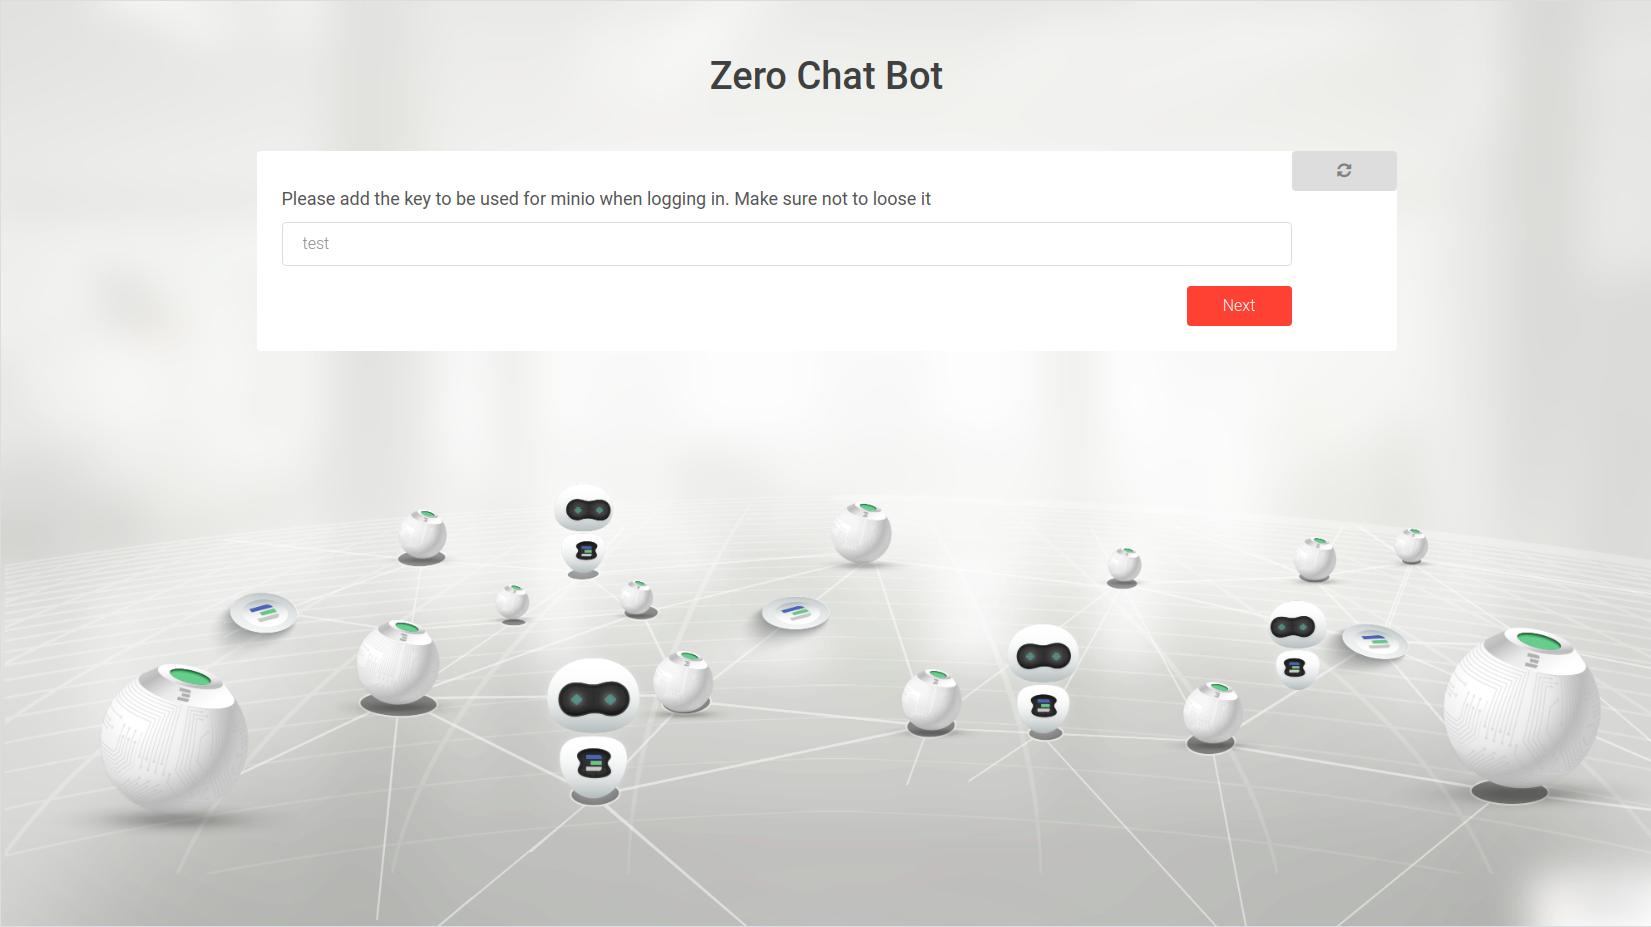
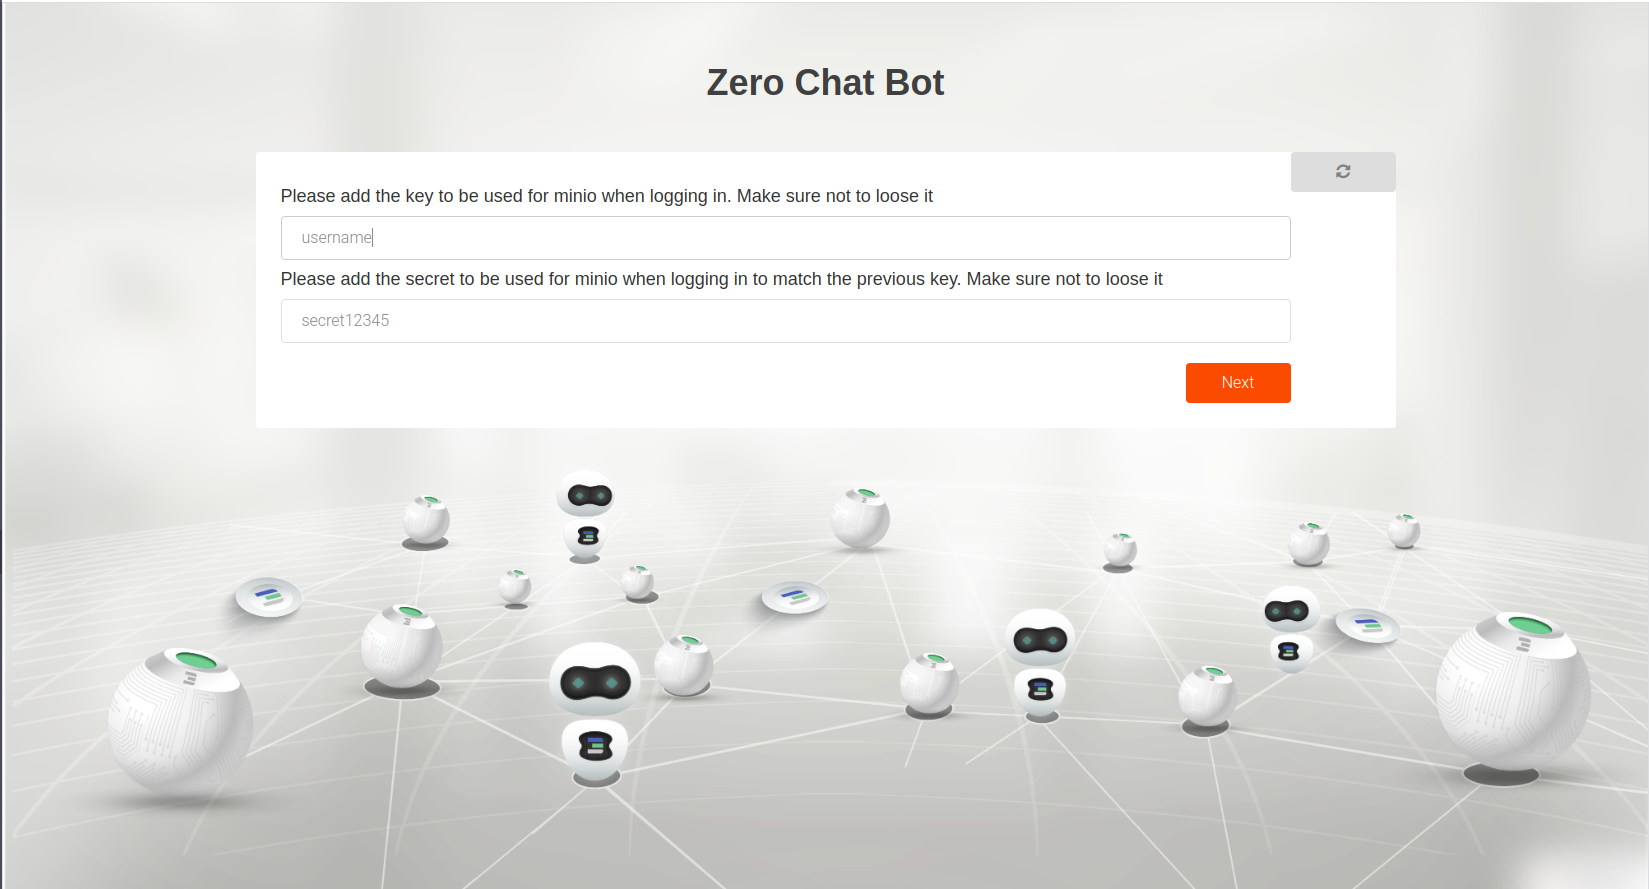
Update deployment solutions wiki docs in tfgrid solutions package

diff --git a/ThreeBotPackages/tfgrid_solutions/tfgrid_solutions/wiki/minio/README.md b/ThreeBotPackages/tfgrid_solutions/tfgrid_solutions/wiki/minio/README.md
@@ -15,66 +15,76 @@ Go to your admin dashboard `https://localhost:4000/admin` and click on Network
 
 
 - `container name` a name of your conatiner to help you to get it again with reservation id.
-- `db password` : password used for all zdb storage
 - `disk type for storage` : (SSD or HDD) disk type to be used by zdb databases where storage will take place
-- `database mode` : (seq or user) mode in which all zdb databases will run with
 - `access key & secret` : access key and secret pair that will be used to access MinIO deployed. This should be kept safely as it will provide access to the deployed infrastructure.
 - `cpu needed` : Number of cpu needed
 - `memory size` : Memory size needed example 2048
-- `number of data drives and parity drives` : number of drives needed and hence the number of zdbs to be created. Take care of the ratio between the number of data drives and the number of parity drives ([more info about drives](https://docs.min.io/docs/minio-erasure-code-quickstart-guide.html))
-    - `Expiration time`: a network expiration time (minutes=m ,hour=h, day=d, week=w, month=M)
-    - `IP Address` : choose the ip address for your MinIO machine.
+- `number of locations needed and locations allowed to fail` : number of drives needed and hence the number of zdbs to be created. Take care of the ratio between the number of locations needed (data drives) and the number of locations allowed to fail (parity drives) ([more info about drives](https://docs.min.io/docs/minio-erasure-code-quickstart-guide.html))
+- `Expiration time`: a network expiration time (minutes=m ,hour=h, day=d, week=w, month=M)
+- `IP Address` : choose the ip address for your MinIO machine.
 
 
 After the deployment of MinIO is complete,  a url will be returned that can be used to access it.
 
 ## Deploying MinIO
 
+### Choosing the solution name
+
+![Step3](minio3.png)
+Choosing the name of the solution to be deployed. This allows the user to view the solution's reservation info in the dashboard deployed solutions
 
 ### Choosing the network name
 
 ![Step2](minio2.png)
 Choosing the network to be used from a list of existing networks created by the user
 
-### Choosing the solution name
+### Choosing the Disk Type for zdb
 
-![Step3](minio3.png)
-Choosing the name of the solution to be deployed. This allows the user to view the solution's reservation info in the dashboard deployed solutions
-
-### ZDB Storage
-![Step4](minio4.png)
-
-Here we set the password for the backend of minio our [0-db](https://github.com/threefoldtech/0-db)
-
-### Choosing the Disk Type
 ![Step5](minio5.png)
 Now time to choose your disk type either SSD or HDD.
 
 
 ### User credentials
-Here we ask for the key and secret to access minio 
+
 ![Step6](minio6.png)
+Here we ask for the key and secret to access minio. Let's make sure we never lose them
 
-![Step7](minio7.png)
-Let's make sure we never lose them
 ### Resources for Minio
-![Step8](minio9.png)
-Here we define the CPU we need
-![Step9](minio10.png)
-And Now the time to specify the memory resources we need.
 
-### Locations 
-![Step10](minio11.png)
-![Step11](minio12.png)
+![Step8](minio9.png)
+Here we define the CPU nd memory resources we need
+
+### Locations
+
+![Step11](minio11.png)
 Here we choose the number of locations we want to save data on and number of locations we allow to fail.
 
 ### Expiration time
+
 ![Step12](minio13.png)
 Now we define the expiration time for the solution on the grid.
 
-### Confirming 
+### Choose a farm to deploy on
+
+![step8](../farms.png)
+
+We can choose the farms on which the container can be deployed on. The farms are basically a group of nodes where multiple solutions can be deployed on them. We can either choose the farm name from the drop down list or leave it empty to randomly choose any farm.
+
+### Choosing IP for the solution
+
+![step9](minio10.png)
+Here we choose the IP to access the solution
+
+### Confirming
+
 ![Step14](minio15.png)
 The user should confirm his reservation details
+
+### Payment
+
+![step10](../payment.png)
+
+We select the wallet that we will pay with to proceed with the payment for the solution that will be deployed. There are two payments to be done, one for the zdb used for the cluster and the other one for the container that will have minio deployed on.
 
 ### Access information
 ![Step15](minio16.jpg)

diff --git a/ThreeBotPackages/tfgrid_solutions/tfgrid_solutions/wiki/kubernetes/README.md b/ThreeBotPackages/tfgrid_solutions/tfgrid_solutions/wiki/kubernetes/README.md
@@ -25,44 +25,68 @@ Go to your admin dashboard `https://localhost:4000/admin` and click on Network
 ## Inputs
 
 - `container name` a name of your container to help you to get it again with reservation id.
-- `number of workers` : number of worker nodes to be deployed, the cluster size will then be the number of workers + 1(master node)
+- `number of mater` : number of worker nodes to be deployed
+- `number of workers` : number of worker nodes to be deployed, the cluster size will then be the number of workers nodes + number of master nodes
 - `ssh keys` : ssh keys which will be used to allow access for the ssh key holders to the deployed cluster. They should be in a file where each ssh key is on a seperate line
 - `Expiration time`: a network expiration time (minutes=m ,hour=h, day=d, week=w, month=M)
 - `cluster secret` : the secret that will be used to access the cluster deployed. Please keep it safe.
 - `IP range` : Configure network manually by choosing an IP range to use or the deployer can choose for you and generate an IP range automatically
 - `Network name` : a name for the network to deploy on,  if left empty it will be a generated name
 
-
 ## Deploying Kubernetes:
 
+### Choosing the network
+
+![Step1](k8s3.png)
+Here we choose which network we connect our kubernetes cluster to
+
 ### Choosing deployment name
+
 ![Step2](k8s2.png)
 
 Choosing the name of the solution to be deployed. This allows the user to view the solution's reservation info in the dashboard deployed solutions
 
-### Choosing the network
-![Step3](k8s3.png)
-Here we choose which network we connect our kubernetes cluster to
+### Choosing the nodes specification
 
-### Choosing number of worker nodes
 ![Step4](k8s4.png)
+Here we specify the size of the nodes that will be selected for deployment. We also specify the number of master nodes and worker nodes that will be in the cluster
 
-Here, we specify the number of worker nodes used in the cluster.
+### Choose a farm to deploy on
 
-### Uploading your public Key 
+![step8](../farms.png)
+
+We can choose the farms on which to deploy on. The farms are basically a group of nodes where multiple solutions can be deployed on them. We can either choose farm names from the drop down list or leave it empty to randomly choose from any farms.
+
+### Uploading your public Key
+
 ![Step5](k8s5.png)
 This step is necessary to access the kubernetes machine and authorize you to be able to SSH into it
 
 ### Expiration time
+
 ![Step6](k8s6.png)
 Here we specify for how long you want to reserve kubernetes cluster on our grid
 
 ### Choosing a secret for the cluster
+
 ![Step7](k8s7.png)
 Now it's time to choose the secret for your kubernetes cluster, make sure you don't forget it.
 
-### Set the IP Address for the solution
-![Step8](k8s8.png)
+### Set the IP Addresses for the solution master nodes
+
+![Step9](k8s8.png)
+We select IP addresses equal to the number of master nodes we entered earlier.
+
+### Set the IP Addresses for the solution worker nodes
+
+![Step9](k8s9.png)
+We then select IP addresses equal to the number of worker nodes we entered earlier
+
+### Payment
+
+![step10](../payment.png)
+
+Finally we select the wallet that we will pay with to proceed with the payment for the solution that will be deployed.
 
 After the deployment of the Kubernetes cluster is complete, the user with the ssh keys will have access to the deployed cluster.
 

diff --git a/ThreeBotPackages/tfgrid_solutions/tfgrid_solutions/wiki/ubuntu/README.md b/ThreeBotPackages/tfgrid_solutions/tfgrid_solutions/wiki/ubuntu/README.md
@@ -19,14 +19,17 @@ Go to your admin dashboard `https://localhost:4000/admin` and click on Network
 - `environment variables`: set environment variables on your deployed container, enter comma-separated variable=value For example: var1=value1, var2=value2. Leave empty if not needed
 - `Expiration time`: a network expiration time (minutes=m ,hour=h, day=d, week=w, month=M)
 - `IP Address`: choose the ip address for your ubuntu machine.
-* `User setup`
-- register user threebot on explorer ```kosmos "j.tools.threebot.init_my_threebot(name=3bot_NAME,email=EMAIL)"``` Note: name of 3bot is (your 3bot name).3bot , email is your 3bot email
-- Install [wireguard](https://www.wireguard.com/install/)
 
+## User setup
+
+- Register user threebot on explorer ```kosmos "j.me.configure()"```
+
+    Note: name of 3bot is (your 3bot name).3bot , email is your 3bot email
+- Install [wireguard](https://www.wireguard.com/install/)
 
 After the deployment of the ubuntu is complete, a url will be returned that can be used to access the container through web browser (corex) after up your wireguard configuration.
 
-## Deploying Ubuntu Container :
+## Deploying Ubuntu Container
 
 ### Choosing the network name
 
@@ -39,39 +42,54 @@ Choosing the network to be used from a list of existing networks created by the 
 Choosing the name of the solution to be deployed. This allows the user to view the solution's reservation info in the dashboard deployed solutions
 
 ### Choosing ubuntu version
+
 ![step4](ubuntu4.png)
 We currently support 18.04 and 16.04
 
 
 ### Choosing Resources for your container
+
 ![step5](ubuntu5.png)
 Here we specify the CPU and Memory resources allocated for the container
 
 ### Authorizing yourself
+
 ![step6](ubuntu6.png)
 Uploading your public key for SSH access
 
-### Environment variables
-![step7](ubuntu7.png)
-It's very common that you need to pass some environment variables to your container when starting, if not sure leave empty
-
 ### Setting expiration
+
 ![step8](ubuntu8.png)
 Now we need to tell the grid how long we want our solution to stay alive on the grid
 
+### Choose a node to deploy on (optional)
+
+![step8](ubuntu_node.png)
+
+Here we can provide a node id corresponding to a current node on the grid to deploy the container on. If there is no specific node to be used then it is left empty.
+
+### Choose a farm to deploy on
+
+![step8](../farms.png)
+
+If the nodeid is left empty, we can choose the farms on which the container can be deployed on. The farms are basically a group of nodes where multiple solutions can be deployed on them. We can either choose the farm name from the drop down list or leave it empty to randomly choose any farm.
+
 ### Choosing IP for the solution
+
 ![step9](ubuntu9.png)
 Here we choose the IP to access the solution
 
-
 ### Confirm your reservation
+
 ![step10](ubuntu10.png)
 Here we confirm the specifications we entered in the chatflow
 
+### Payment
+
+![step10](../payment.png)
+We select the wallet that we will pay with to proceed with the payment for the solution that will be deployed.
 
 ### Reaching your container
+
 ![step11](ubuntu11.png)
-Here we get the container 
-
-
-
+Here we get the container

diff --git a/ThreeBotPackages/tfgrid_solutions/tfgrid_solutions/wiki/flist/README.md b/ThreeBotPackages/tfgrid_solutions/tfgrid_solutions/wiki/flist/README.md
@@ -8,7 +8,6 @@ Go to your admin dashboard `https://localhost:4000/admin` and click on Network
 
 ![solutions menu](./../adminmenu.png)
 
-
 ## Inputs
 
 The solution takes some configurations from the user, we will list them and explain their meaning
@@ -18,7 +17,6 @@ The solution takes some configurations from the user, we will list them and expl
 - `environment variables`: set environment variables on your deployed container, enter comma-separated variable=value For example: var1=value1, var2=value2. Leave empty if not needed
 - `Expiration time`: a network expiration time (minutes=m ,hour=h, day=d, week=w, month=M)
 - `Inetractive`: choose whether you prefer to access to your container through the web browser (coreX) or not.
-- `ssh key` : add your public ssh key `~/.ssh/id_rsa.pub`, if your flist supports using the ssh key from the env variables provided to allow future ssh access
 - `IP Address`: choose the ip address for your ubuntu machine.
 
 
@@ -53,9 +51,6 @@ Specify the number of CPU cores and the size of the memory to be used by the con
 ![Step6](flist6.png)
 The corex option allows the user to access the container through corex. If disable the user can access the container using ssh
 
-### Uploading ssh key
-![Step7](flist7.png)
-This ssh key is used in case corex option is No, and the flist supports ssh on startup hence adding the ssh key in the env variables passed to it
 
 ### Choosing environment variables
 ![Step8](flist8.png)
@@ -65,11 +60,25 @@ If the container needs any env variables on startup, they are passed through thi
 ![Step9](flist9.png)
 Choosing the expiration time for the solution on the grid
 
+### Choose a farm to deploy on
+
+![step8](../farms.png)
+
+We can choose the farms on which the container can be deployed on. The farms are basically a group of nodes where multiple solutions can be deployed on them. We can either choose the farm name from the drop down list or leave it empty to randomly choose any farm.
+
 ### Choosing the private IP address of the container
+
 ![Step10](flist10.png)
 Choosing the private IP address that will be used to access or communicate with the deployed solution
 
+### Payment
+
+![step10](../payment.png)
+
+We select the wallet that we will pay with to proceed with the payment for the solution that will be deployed.
+
 ## Accessing corex of the deployed container
+
 Accessing a deployed solution using an flist with the link  `https://hub.grid.tf/tf-bootable/ubuntu:18.04` to have a container with ubuntu started.
 
 ![](2.png)
